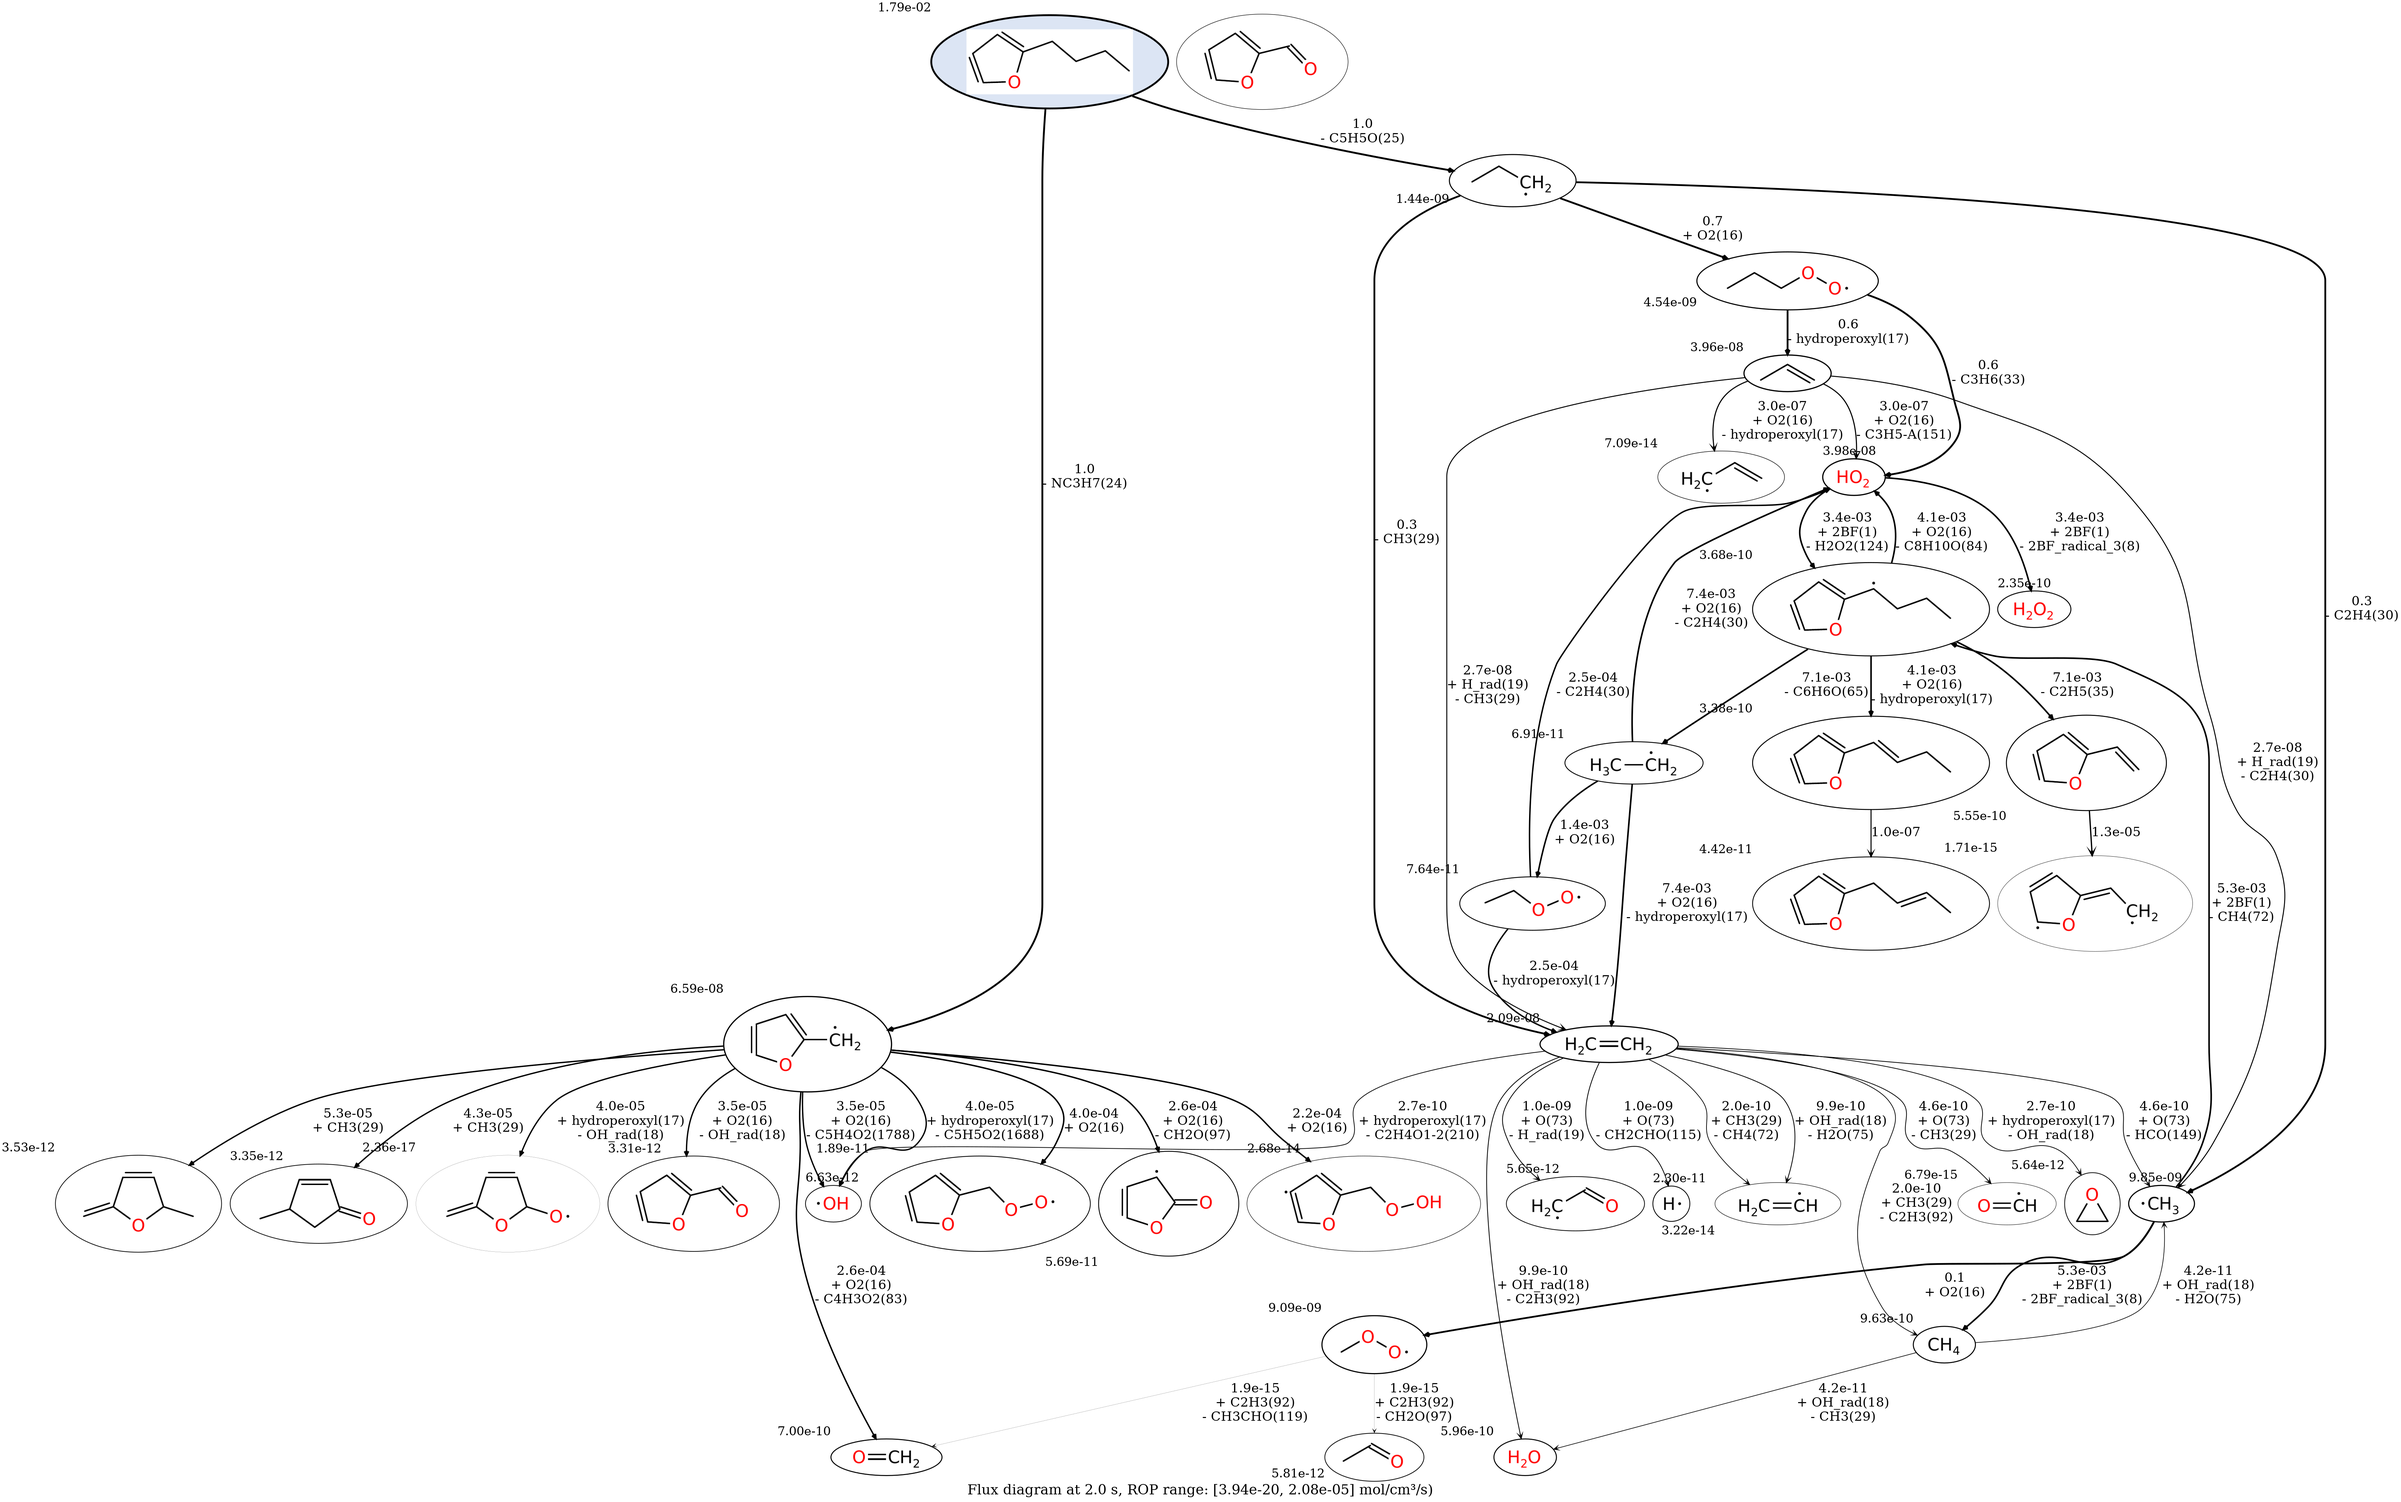
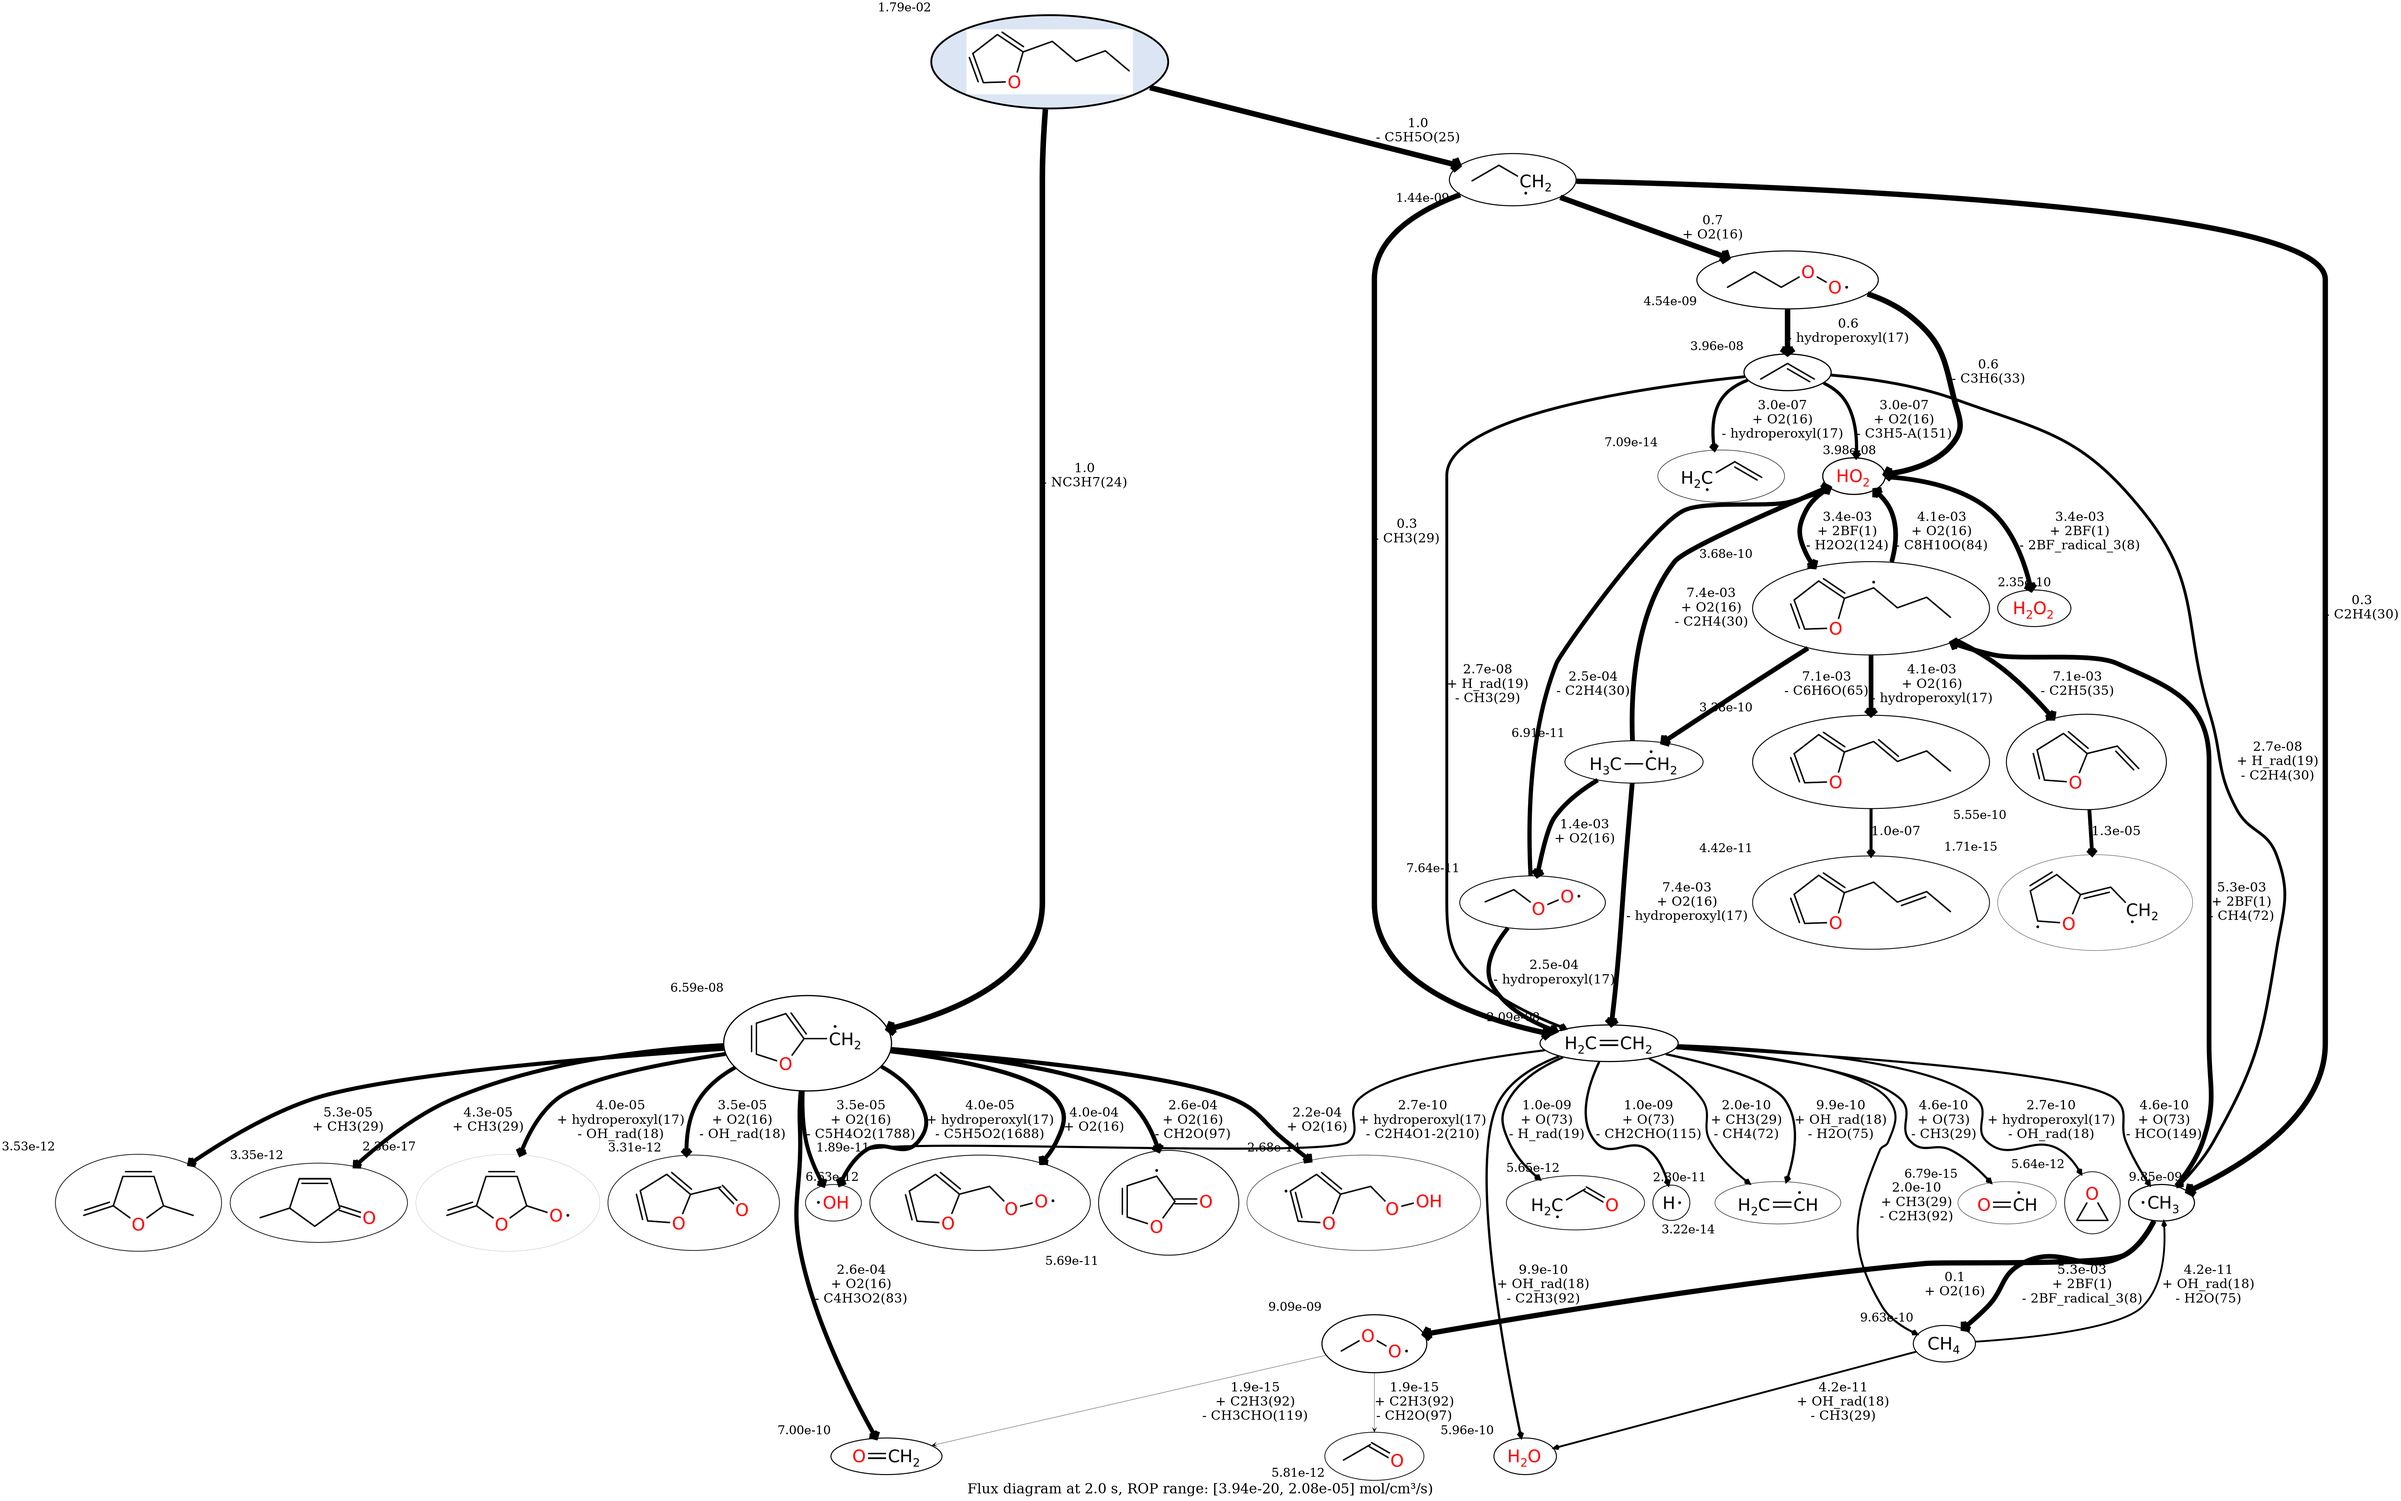
removed a redundant node and increased edge penwidth

diff --git a/FluxDiagrams/FD_JSR_T3/FD_funcs.py b/FluxDiagrams/FD_JSR_T3/FD_funcs.py
@@ -101,12 +101,18 @@ def add_images_to_nodes(dict_species, dot_file_path, image_folder_path):
     # Iterate over all edges and change the fontsize
     for edge in graph.get_edges():
         edge.set('fontsize', "28")
+        # Get and update penwidth for edge by factor to keep proportion (this is the arrow width)
+        current_edge_penwidth = float(edge.get_attributes().get('penwidth'))
+        updated_penwidth = current_edge_penwidth * 3
+        edge.set('penwidth', str(updated_penwidth))
 
     # Iterate over nodes and add images
     for node in graph.get_nodes():
         # Assume node names are enclosed in double quotes
         node_name = node.get_name().strip('"')
-        if node_name != r'\n':
+        #For some reason, get_nodes(), which is a list of nodes in graphs, gives another extra node with label "\\n"
+        #This redundant node is remove 
+        if node_name.strip() != "\\n":
             # Check if the node has xlabel attribute
             if 'xlabel' in node.get_attributes():
                 # Get the current attributes
@@ -122,10 +128,13 @@ def add_images_to_nodes(dict_species, dot_file_path, image_folder_path):
                 smiles = dict_species[node_name]
 
             image_path = os.path.join(image_folder_path, f"{smiles}.png")
-        # Add the image to the node
-        if os.path.exists(image_path):
-            node.set_image(image_path)
-            node.set_label('')
+            # Add the image to the node
+            if os.path.exists(image_path):
+                node.set_image(image_path)
+                node.set_label('')
+
+        else:
+            graph.del_node(node)
 
     # Save the new .dot file
     modified_dot_path = os.path.join(os.path.dirname(dot_file_path),'flux_diagram_2.0_s_modified.dot')
